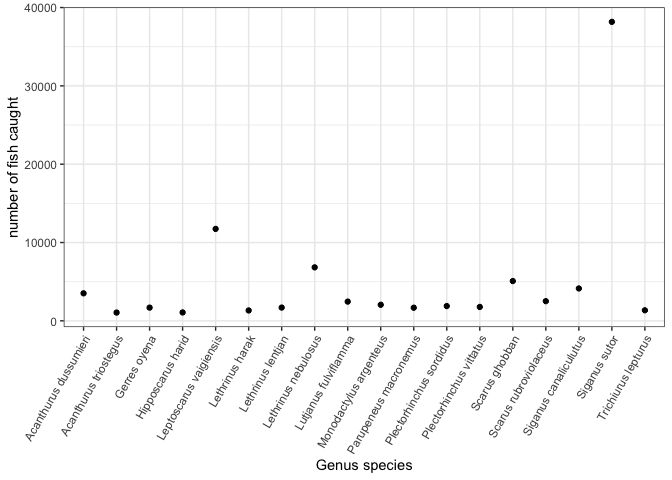
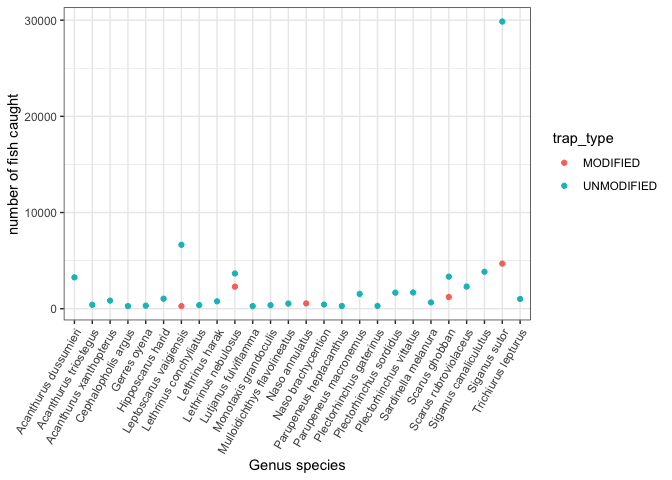
species count separated by type of trap

diff --git a/FishLandings/scripts/Analysis.md b/FishLandings/scripts/Analysis.md
@@ -5,9 +5,14 @@ Author: Emma Strand; <emma_strand@uri.edu>
 ## Potential dataset issues
 
 **Notes**:  
-- Modified traps were only recorded in February.. is this a problem?  
+- Modified traps were only recorded in February.. is this a problem? The
+month of June for unmodified traps might be influencing some of these
+conclusions.. can we make that claim across all months?  
 - Circle back to triple check the number of fish column in the QC
-script.
+script.  
+- Make sure trap type names have been changed/edited as needed in QC
+script.  
+- Will need a sanity check on reality of total catch values
 
 ## Goal
 
@@ -28,7 +33,9 @@ type. finish stats below for this.*
 traps. Take the top 3-5 species and run \#1 for them separately.**
 
 Results:  
-- Top species caught across all surveys:
+- Top species caught across all surveys: *Siganus sutor* (38174),
+*Leptoscarus vaigiensis* (11739), *Lethrinus nebulosus* (6830), *Scarus
+ghobban* (5081), and *Siganus canaliculutus* (4135).
 
 1.  Total mature fish catch per unit effort between modified and
     traditional traps. This will have to be for the top 3-5 species
@@ -72,12 +79,12 @@ Read in the data frame that is the output of the QC script.
 
 ``` r
 # read in excel file
-data <- read_excel("data/Fishlandings-cleaned-21052022-May.xlsx") 
+data <- read_excel("data/Fishlandings-cleaned-21052022-May.xlsx") #read in excel file 
 
 # creating a month column based on operation date column 
-data$month <- data$Operation_date
+data$month <- data$Operation_date #duplicating the operation date column to then modify in next steps 
 data$month <- format(data$month, "%m") #extracting only the month in the new column
-data$month <- as.numeric(data$month)
+data$month <- as.numeric(data$month) #changing this column to numeric instead of a character (needed for next fxn)
 data$month <- month.abb[data$month] #changing numeric months to month names 
 ```
 
@@ -92,12 +99,12 @@ Goal: grams captured per trap set.
 
 ``` r
 modified_trap_df <- data %>% unite(survey_id, Operation_date, fisher_id, sep = " ", remove = FALSE) %>%
-  dplyr::group_by(survey_id) %>% 
-  mutate(total_catch = sum(number_of_fish),
-         grams_per_trap = total_weight_kg/total_traps_collected,
-         catch_per_trap = total_catch/total_traps_collected) %>%
-  dplyr::ungroup(survey_id) %>%
-  subset(trap_type == "MODIFIED" | trap_type == "UNMODIFIED") %>%
+  dplyr::group_by(survey_id) %>% # group by survey id
+  mutate(total_catch = sum(number_of_fish), #count the number of fish caught for each survey id
+         grams_per_trap = total_weight_kg/total_traps_collected, #divide total weight for survey id by total traps 
+         catch_per_trap = total_catch/total_traps_collected) %>% #divide total catch per survey id by total traps 
+  dplyr::ungroup(survey_id) %>% #ungroup by this column  
+  subset(trap_type == "MODIFIED" | trap_type == "UNMODIFIED") %>% #subset for only modified and unmodified traps 
   select(survey_id, enumerator, trap_type, `No. of fishers in crew`, landing_site, total_catch, month, grams_per_trap, catch_per_trap) %>%
   distinct() 
 ```
@@ -402,20 +409,51 @@ in each modified and unmodified traps?
 Calculating which species were the most abundant across the entire
 survey.
 
-Left off at ordering this plot by the most abundant.. maybe do relative
-abundance next? for the whole survey?
+This might have to be number of fish caught per trap? So that the
+difference in \# of traps for modified and unmodified is accounted for?
+
+This is split for modified and unmodified so far.. but can be changed to
+combined.. the trend is about the same for most abundant type of fish in
+each trap..
 
 ``` r
-species_list <- data %>% select(scientific_name, number_of_fish) %>% na.omit() %>%
-  dplyr::group_by(scientific_name) %>%
+species_list <- data %>% select(scientific_name, number_of_fish, trap_type) %>% 
+  na.omit() %>% 
+  subset(trap_type == "MODIFIED" | trap_type == "UNMODIFIED") %>% #subset for only modified and unmodified traps 
+  dplyr::group_by(scientific_name, trap_type) %>%
   mutate(species_catch = sum(number_of_fish)) %>% select(-number_of_fish) %>% distinct()
 
-species_list %>% filter(species_catch > 1000) %>%
-  ggplot(., aes(x=scientific_name, y=species_catch)) + ylab("number of fish caught") + xlab("Genus species") +
+# above 250 cut off includes top each count for each type of trap 
+species_list %>% filter(species_catch > 250) %>%
+  ggplot(., aes(x=scientific_name, y=species_catch, group = trap_type, color = trap_type)) + ylab("number of fish caught") + xlab("Genus species") +
   geom_point() + theme_bw() + theme(axis.text.x = element_text(angle = 60, hjust=1)) #Set the text angle
 ```
 
 ![](Analysis_files/figure-gfm/unnamed-chunk-11-1.png)<!-- -->
+
+``` r
+# print top 5 species from whole survey
+species_list %>% group_by(trap_type) %>%                                    
+  arrange(desc(species_catch))
+```
+
+    ## # A tibble: 146 × 3
+    ## # Groups:   trap_type [2]
+    ##    scientific_name         trap_type  species_catch
+    ##    <chr>                   <chr>              <dbl>
+    ##  1 Siganus sutor           UNMODIFIED         29857
+    ##  2 Leptoscarus vaigiensis  UNMODIFIED          6644
+    ##  3 Siganus sutor           MODIFIED            4691
+    ##  4 Siganus canaliculutus   UNMODIFIED          3840
+    ##  5 Lethrinus nebulosus     UNMODIFIED          3662
+    ##  6 Scarus ghobban          UNMODIFIED          3333
+    ##  7 Acanthurus dussumieri   UNMODIFIED          3257
+    ##  8 Scarus rubroviolaceus   UNMODIFIED          2302
+    ##  9 Lethrinus nebulosus     MODIFIED            2293
+    ## 10 Plectorhinchus vittatus UNMODIFIED          1684
+    ## # … with 136 more rows
+
+Does this differ by type of trap?
 
 After this then subset for just top species and do the first goal with
 only those…
